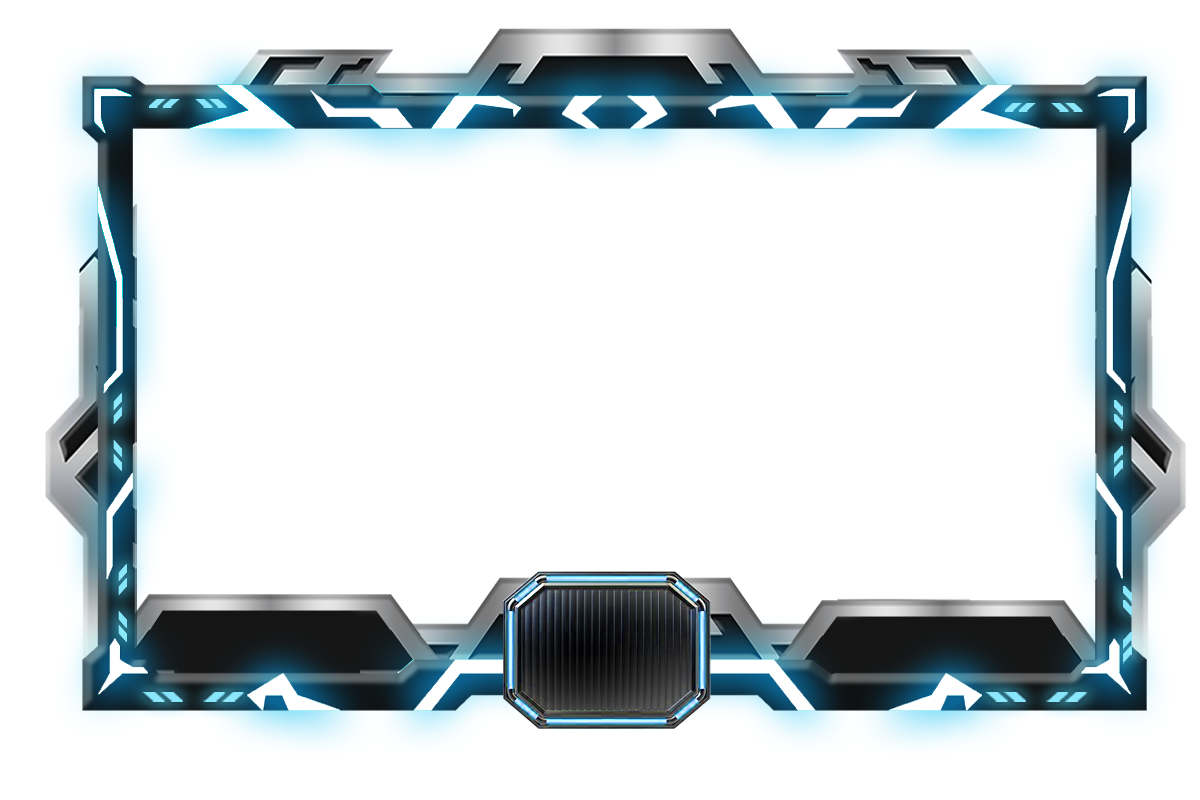
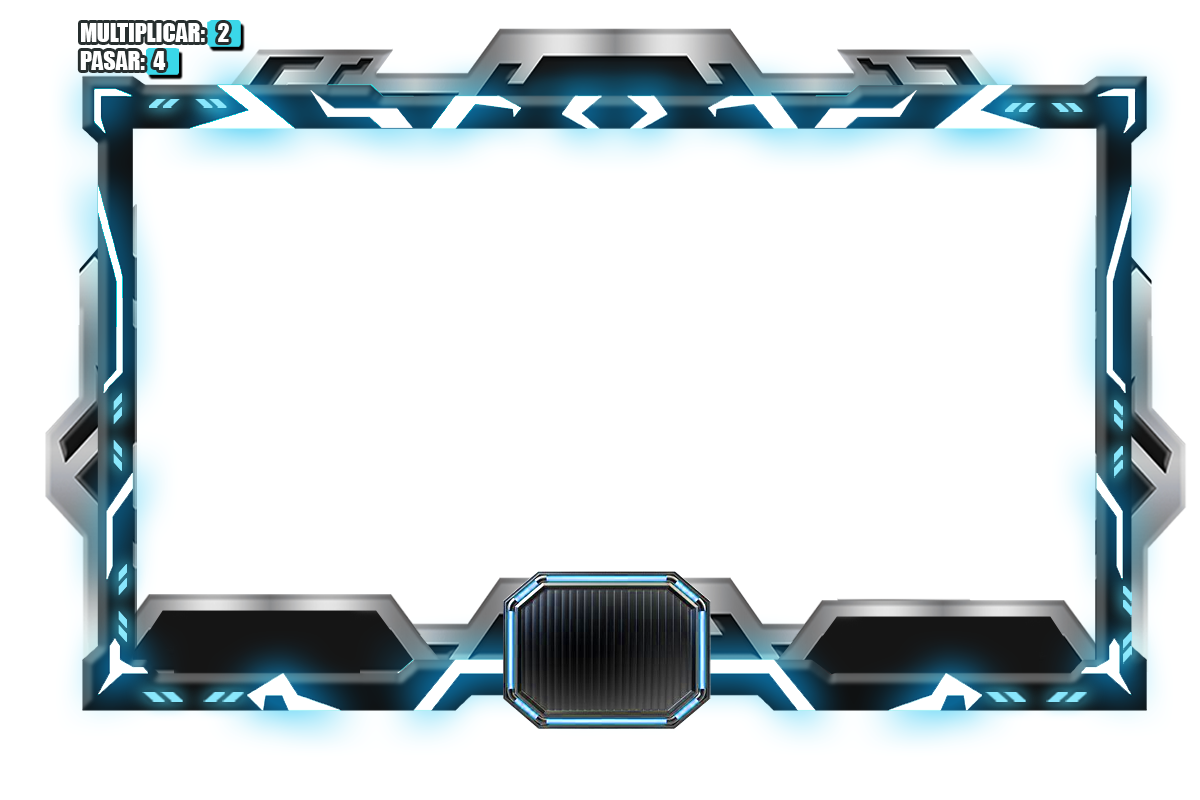
entrega

Changed region(s): [[0.0617, 0.0, 0.2158, 0.125]]

diff --git a/Juego.py b/Juego.py
@@ -45,6 +45,13 @@ ultimo_tiempo = pygame.time.get_ticks()
 contador_correctas_constantes = 0 # -----------------------
 mostrar_messi_feliz = 0
 mostrar_messi_enojado = 0
+
+# COMODINES
+comodin_multiplicar = True  # Comodín de multiplicar disponible
+comodin_pasar = True        # Comodín de pasar disponible
+multiplicar_activado = False  # Estado de activación del comodín multiplicar
+pasar_activado = False       # Estado de activación del comodín pasar
+
 def mostrar_juego(pantalla:pygame.Surface,cola_eventos:list[pygame.event.Event], datos_juego:dict)->str:
     global indice
     global lista_preguntas
@@ -56,7 +63,11 @@ def mostrar_juego(pantalla:pygame.Surface,cola_eventos:list[pygame.event.Event],
     global contador_correctas_constantes # -----------------------
     global mostrar_messi_feliz
     global mostrar_messi_enojado
-
+    global comodin_multiplicar   # Comodín de multiplicar disponible
+    global comodin_pasar         # Comodín de pasar disponible
+    global multiplicar_activado # Indica si el comodín multiplicar está activo
+    global pasar_activado    
+    
     pygame.display.set_caption('JUEGO')
     if bandera_respuesta == True:
         cartas_respuestas = cargar_botones_y_posicionar(imagenes_respuestas,posiciones_botones)
@@ -96,16 +107,46 @@ def mostrar_juego(pantalla:pygame.Surface,cola_eventos:list[pygame.event.Event],
     for evento in cola_eventos:
         if evento.type == pygame.QUIT:
             retorno = 'salir'
+        
+        if evento.type == pygame.KEYDOWN and evento.key == pygame.K_2 and comodin_multiplicar:
+            comodin_multiplicar = False  # Marcar el comodín como usado
+            multiplicar_activado = True  # Activar el efecto
+            print("Comodín de multiplicar activado.")
+
+        if evento.type == pygame.KEYDOWN and evento.key == pygame.K_4 and comodin_pasar:
+            comodin_pasar = False
+            pasar_activado = True
+            print("Comodín de pasar activado.")
+            
         if evento.type == pygame.MOUSEBUTTONDOWN:
+            if pasar_activado:
+                pasar_activado = False
+                indice += 1
+                bandera_respuesta = True
+                cronometro = 15
+                if indice >= len(lista_preguntas):
+                    indice = 0
+                    retorno = 'game_over'
+                print("Pregunta pasada por comodín.")
+                return retorno
+            
+            
             for i in range(len(cartas_respuestas)):
                 if cartas_respuestas[i]['rectangulo'].collidepoint(evento.pos):
                     CLICK_PELOTAZO.play()
                     cartas_respuestas[i]['superficie'] = pygame.image.load(imagenes_respuestas_seleccionadas[i])
                     respuesta_actual = i + 1
+                    
                     if respuesta_actual == pregunta_actual['respuesta_correcta']:
                         marcar_respuesta_correcta(datos_juego)
                         mostrar_messi_feliz = 30
                         
+                        # Multiplicar el puntaje si el comodín está activo
+                        if multiplicar_activado:
+                            datos_juego['puntuacion'] += 2 * PUNTOS_POR_PREGUNTA
+                            multiplicar_activado = False
+                            print("Puntaje multiplicado por comodín.")
+
                         # CONTAR CORRECTAS
                         contador_respuestas_correctas += 1
                         contador_correctas_constantes += 1
@@ -114,7 +155,7 @@ def mostrar_juego(pantalla:pygame.Surface,cola_eventos:list[pygame.event.Event],
                                 CLICK_GANASTE_VIDA.play()
                                 if datos_juego['vidas'] < 3:
                                     datos_juego['vidas'] += 1
-                                    # contador_correctas_constantes = 0
+                                    contador_correctas_constantes = 0
 
                         if contador_respuestas_correctas >= CANTIDAD_PREGUNTAS_POR_NIVEL:
                             contador_respuestas_correctas = 0

diff --git a/constantes.py b/constantes.py
@@ -55,10 +55,4 @@ OPCION_4 = 3
 CANTIDAD_PREGUNTAS_POR_NIVEL = 10
 CANTIDAD_NIVELES = 6
 
-fuente_comodines = pygame.font.SysFont('arial', 20)
-
-# Teclas numéricas para activar los comodines
-TECLA_COMODINES = {
-    'x2': pygame.K_2,           # Tecla '2' para X2
-    'pasar': pygame.K_4         # Tecla '4' para Pasar
-}
+PUNTOS_POR_PREGUNTA = 10
